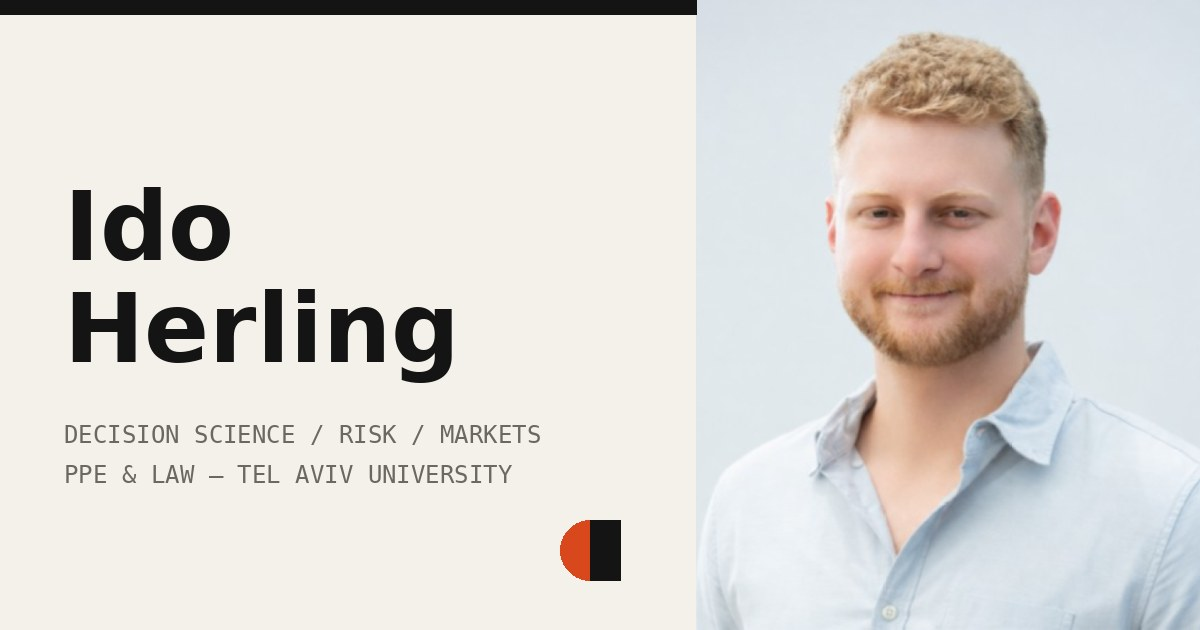
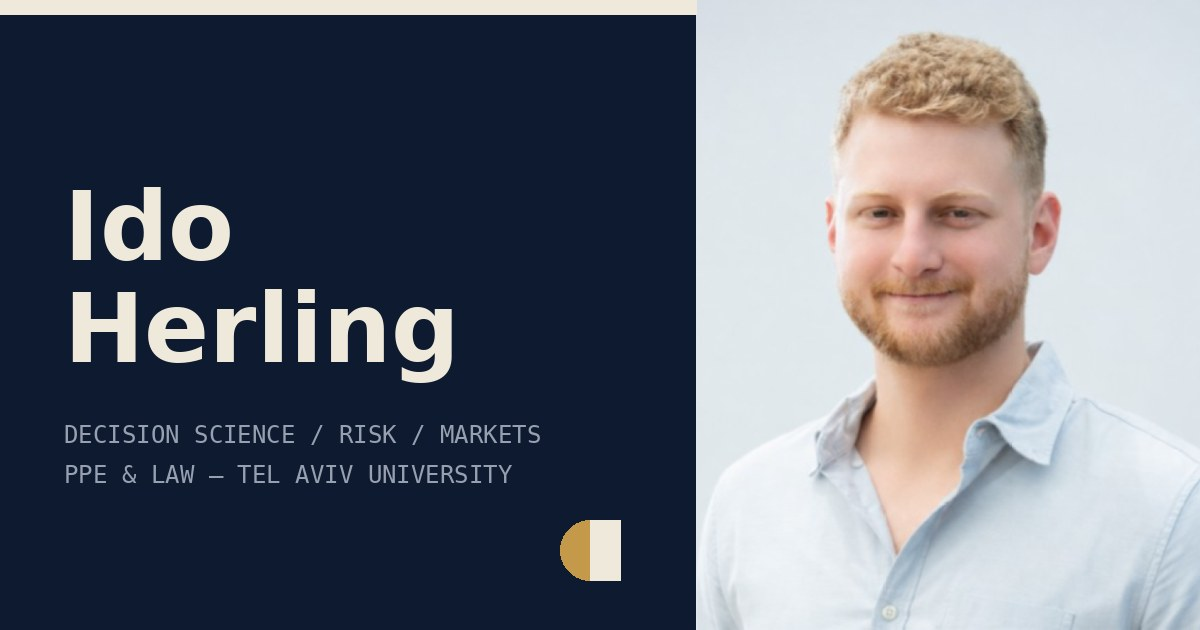
Switch to navy, cream and brass color scheme
Claude-Session: https://claude.ai/code/session_01TjkfGN2Qy4Hh1Avoui1eke

diff --git a/index.html b/index.html
@@ -2,6 +2,8 @@
 <html lang="en">
 <head>
 <meta charset="utf-8">
+<meta name="theme-color" content="#0e1a2f">
+<meta name="color-scheme" content="dark">
 <meta name="viewport" content="width=device-width, initial-scale=1">
 <title>Ido Herling</title>
 <meta name="description" content="Ido Herling — PPE & Law at Tel Aviv University. Decision science, risk, markets.">
@@ -21,11 +23,8 @@
 <link href="https://fonts.googleapis.com/css2?family=Archivo:wght@500;700;800&family=IBM+Plex+Sans:wght@400;500&family=IBM+Plex+Mono:wght@400;500&display=swap" rel="stylesheet">
 <style>
   :root{
-    --paper:#f4f1ea; --ink:#141414; --mute:#6b6862; --rule:#d6d1c6; --accent:#d9481c;
+    --paper:#0e1a2f; --ink:#efe9dc; --mute:#97a0b0; --rule:#24324c; --accent:#c49a4a;
     --display:'Archivo',system-ui,sans-serif; --sans:'IBM Plex Sans',system-ui,sans-serif; --mono:'IBM Plex Mono',ui-monospace,monospace;
-  }
-  @media (prefers-color-scheme:dark){
-    :root{ --paper:#121212; --ink:#ece8df; --mute:#9a958c; --rule:#2c2b28; }
   }
   *{box-sizing:border-box;margin:0;padding:0}
   html{background:var(--paper);color:var(--ink)}
